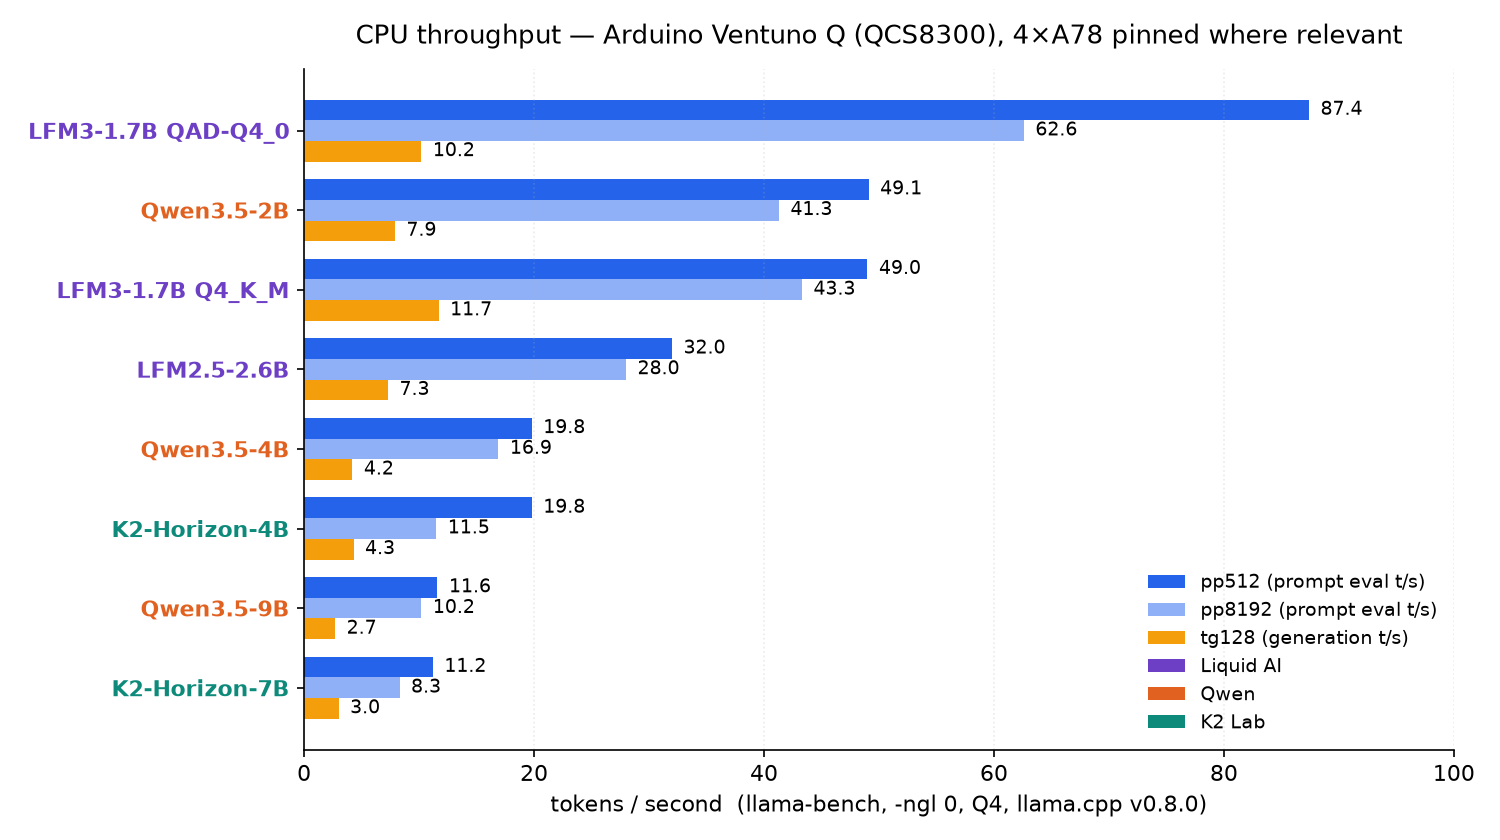
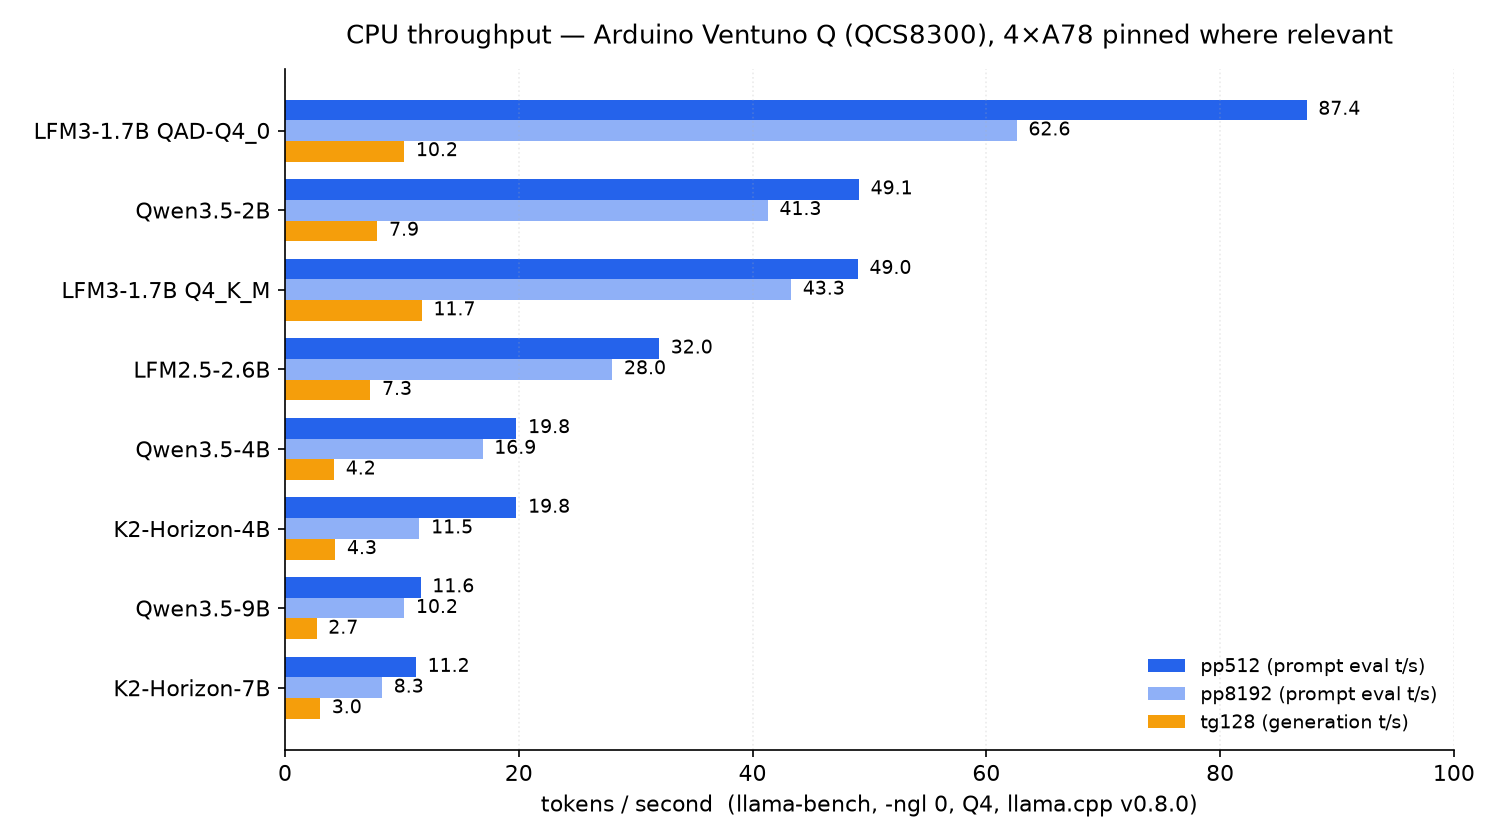
charts: drop per-company coloring; split quality into per-test charts (gsm8k, humaneval)

diff --git a/scripts/make_charts.py b/scripts/make_charts.py
@@ -18,9 +18,6 @@ plt.rcParams.update({
     "figure.facecolor": "white",
 })
 
-# company accent colors (used on tick labels + legend)
-CO = {"Liquid AI": "#6C3FC5", "Qwen": "#E16120", "K2 Lab": "#0E8A7B"}
-
 # ---------------------------------------------------------------- 1. CPU throughput
 # model, pp512, pp8192, tg128, company
 cpu = [
@@ -44,18 +41,13 @@ for yy, v in zip(y + h, pp512): ax.text(v + 1, yy, f"{v:.1f}", va="center", font
 for yy, v in zip(y, pp8192):    ax.text(v + 1, yy, f"{v:.1f}", va="center", fontsize=9)
 for yy, v in zip(y - h, tg128): ax.text(v + 1, yy, f"{v:.1f}", va="center", fontsize=9)
 ax.set_yticks(y, names)
-comp = {r[0]: r[4] for r in cpu}
-for t in ax.get_yticklabels():
-    t.set_color(CO[comp[t.get_text()]]); t.set_fontweight("bold")
 ax.set_xlim(0, 100)
 ax.set_xlabel("tokens / second  (llama-bench, -ngl 0, Q4, llama.cpp v0.8.0)")
 ax.set_title("CPU throughput — Arduino Ventuno Q (QCS8300), 4×A78 pinned where relevant", pad=12)
-hnd, _ = ax.get_legend_handles_labels()
-hnd += [Patch(facecolor=c, label=n) for n, c in CO.items()]
-ax.legend(handles=hnd, loc="lower right", frameon=False, fontsize=9)
+ax.legend(loc="lower right", frameon=False, fontsize=9)
 fig.tight_layout(); fig.savefig(f"{OUT}/cpu-throughput.png", dpi=150); plt.close(fig)
 
-# ---------------------------------------------------------------- 2. quality
+# ---------------------------------------------------------------- 2. quality — one chart per test
 q = [  # model, gsm8k, humaneval, reduced?, company
     ("Qwen3.5-9B",    85.0,  80.0, True,  "Qwen"),
     ("K2-Horizon-7B", 75.0, 100.0, True,  "K2 Lab"),
@@ -64,25 +56,22 @@ q = [  # model, gsm8k, humaneval, reduced?, company
     ("K2-Horizon-4B", 60.0,  75.0, False, "K2 Lab"),
     ("Qwen3.5-2B",    22.0,  40.0, False, "Qwen"),
 ]
-names = [r[0] for r in q][::-1]
-gsm = [r[1] for r in q][::-1]; hum = [r[2] for r in q][::-1]
-y = np.arange(len(names)); h = 0.34
-fig, ax = plt.subplots(figsize=(10, 4.6))
-ax.barh(y + h/2, gsm, height=h, color="#0f766e", label="GSM8K (math, strict last-number)")
-ax.barh(y - h/2, hum, height=h, color="#b91c1c", label="HumanEval (code, sandboxed exec)")
-red = {r[0]: r[3] for r in q}
-for yy, v, n in zip(y + h/2, gsm, names): ax.text(v + 1, yy, f"{v:.0f}%" + ("*" if red[n] else ""), va="center", fontsize=9)
-for yy, v, n in zip(y - h/2, hum, names): ax.text(v + 1, yy, f"{v:.0f}%" + ("*" if red[n] else ""), va="center", fontsize=9)
-ax.set_yticks(y, names)
-comp = {r[0]: r[4] for r in q}
-for t in ax.get_yticklabels():
-    t.set_color(CO[comp[t.get_text()]]); t.set_fontweight("bold")
-ax.set_xlim(0, 112); ax.set_xlabel("% correct   (* = reduced sample: GSM8K N=20, HumanEval 10 tasks; others N=50 / 20)")
-ax.set_title("Quality on-device — CPU, Q4_K_M (unsloth quants for Qwen)", pad=12)
-hnd, _ = ax.get_legend_handles_labels()
-hnd += [Patch(facecolor=c, label=n) for n, c in CO.items()]
-ax.legend(handles=hnd, loc="center left", bbox_to_anchor=(1.01, 0.5), frameon=False, fontsize=9)
-fig.tight_layout(); fig.savefig(f"{OUT}/quality.png", dpi=150); plt.close(fig)
+for idx, title, col in [(1, "GSM8K — math word problems (strict last-number match)", "#0f766e"),
+                        (2, "HumanEval — code generation (sandboxed execution)", "#b91c1c")]:
+    rows = sorted(q, key=lambda r: r[idx])          # ascending → best on top of barh
+    names = [r[0] for r in rows]; vals = [r[idx] for r in rows]; red = [r[3] for r in rows]
+    fig, ax = plt.subplots(figsize=(9, 4.0))
+    y = np.arange(len(names))
+    ax.barh(y, vals, height=0.6, color=col)
+    for yy, v, s in zip(y, vals, red):
+        ax.text(v + 1.5, yy, f"{v:.0f}%" + ("*" if s else ""), va="center", fontsize=10, fontweight="bold")
+    ax.set_yticks(y, names)
+    ax.set_xlim(0, 112)
+    ax.set_xlabel("% correct   (* = reduced sample: N=20 GSM8K / 10 tasks HumanEval; others N=50 / 20)")
+    ax.set_title(title + " — Ventuno Q, CPU, Q4_K_M", pad=10)
+    fig.tight_layout()
+    fig.savefig(f"{OUT}/quality-{'gsm8k' if idx == 1 else 'humaneval'}.png", dpi=150)
+    plt.close(fig)
 
 # ---------------------------------------------------------------- 3. NPU
 # model, npu_pp512, cpu_pp512(pinned same binary), pp8192 speedup, tg128 speedup

diff --git a/README.md b/README.md
@@ -61,7 +61,9 @@ Charts are rendered by [`scripts/make_charts.py`](scripts/make_charts.py) (matpl
 
 ![CPU throughput — pp512 / pp8192 / tg128 per model](docs/assets/charts/cpu-throughput.png)
 
-![Quality — GSM8K vs HumanEval per model](docs/assets/charts/quality.png)
+![GSM8K — math word problems](docs/assets/charts/quality-gsm8k.png)
+
+![HumanEval — code generation](docs/assets/charts/quality-humaneval.png)
 
 ### NPU — speed-up over the *same binary* pinned to the big cores
 
